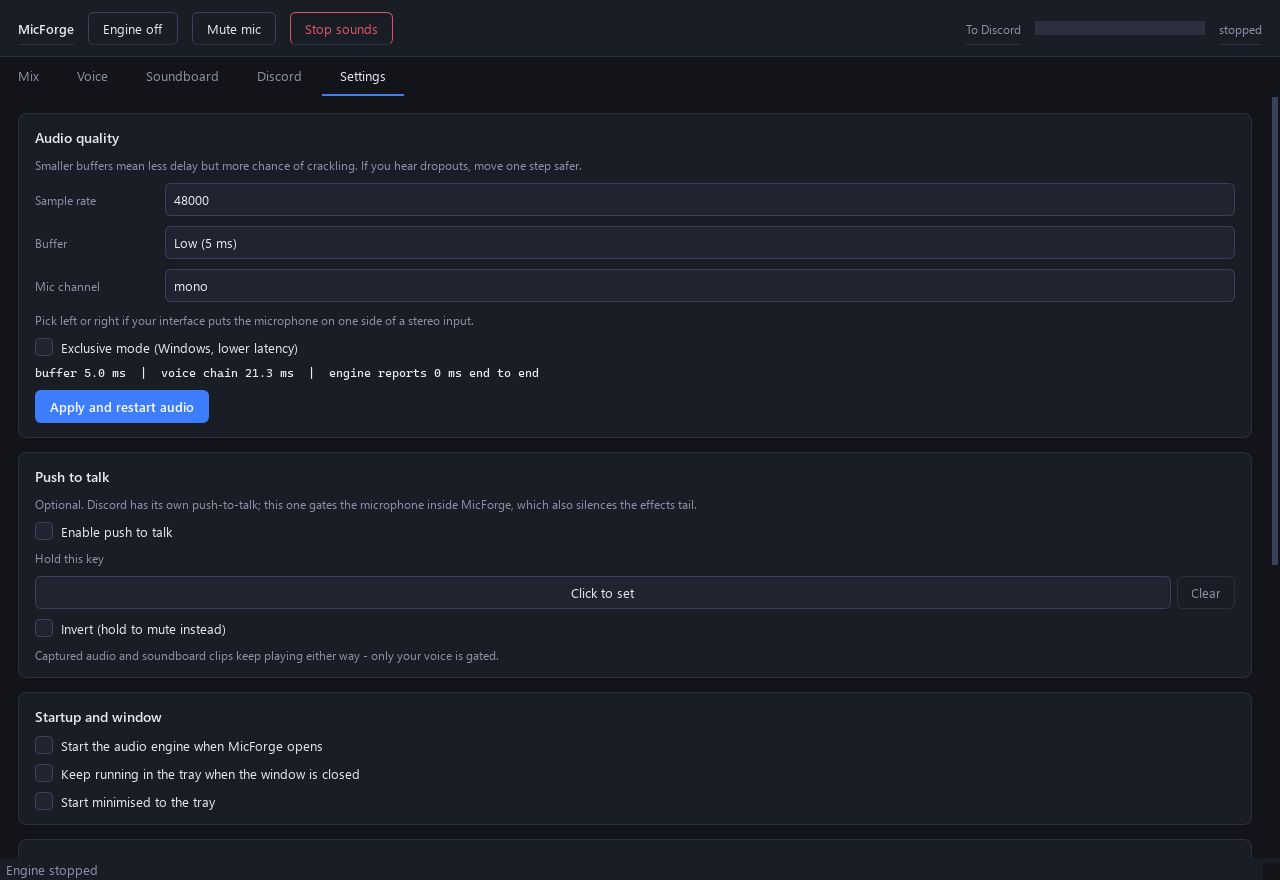
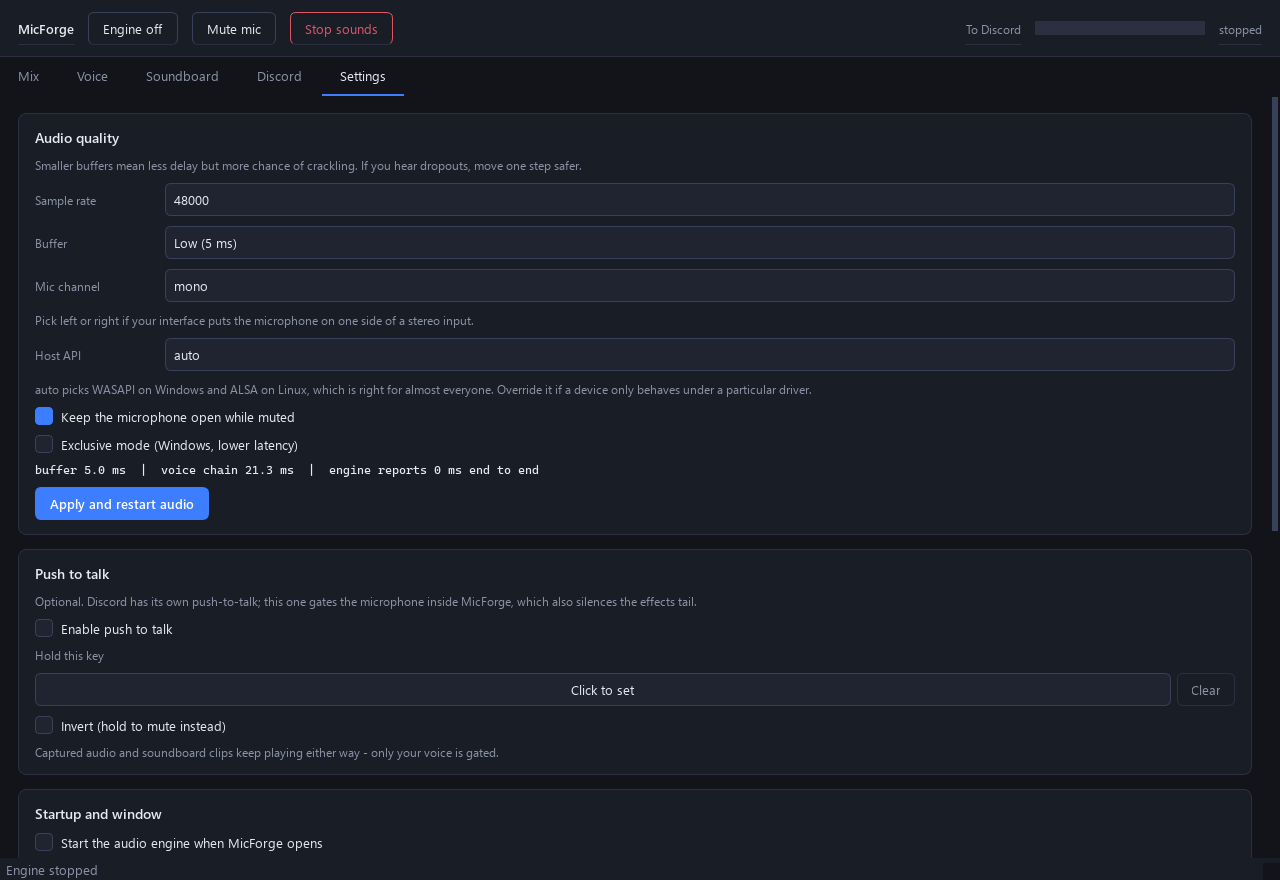
Wire up or remove config fields nothing read
Seven settings existed in config.json but were never consulted, which is
worse than not offering them - anyone hand-editing the file would get no
effect and no explanation.

Two were worth keeping and are now wired with controls on the Settings tab:
prefer_hostapi forces a driver for devices that misbehave under the default
ranking, and keep_alive chooses between instant muting and releasing the
microphone for other apps.

The other five are gone: include_tree could never be honoured (the Windows
process-loopback API has no single-process mode), and theme, show_advanced,
auto_connect, category and favourite were speculative.

diff --git a/micforge/ui/tab_settings.py b/micforge/ui/tab_settings.py
@@ -81,6 +81,20 @@ class SettingsTab(QWidget):
         card.add(hint("Pick left or right if your interface puts the microphone on one "
                       "side of a stereo input."))
 
+        self.hostapi = ChoiceRow("Host API", ["auto"] + devices.available_hostapis(),
+                                 label_width=120)
+        self.hostapi.valueChanged.connect(self._on_audio)
+        card.add(self.hostapi)
+        card.add(hint("auto picks WASAPI on Windows and ALSA on Linux, which is right "
+                      "for almost everyone. Override it if a device only behaves under "
+                      "a particular driver."))
+
+        self.keep_alive = Toggle("Keep the microphone open while muted", True,
+                                 "Makes muting instant. Turn it off to release the "
+                                 "device for other apps when the mic is disabled.")
+        self.keep_alive.toggled.connect(self._on_audio)
+        card.add(self.keep_alive)
+
         self.exclusive = Toggle("Exclusive mode (Windows, lower latency)", False,
                                 "Takes sole control of the device. Lower latency, but "
                                 "other apps cannot use it at the same time.")
@@ -197,6 +211,8 @@ class SettingsTab(QWidget):
                 self.blocksize.set_value(label)
                 break
         self.mic_channels.set_value(d.mic_channel_mode)
+        self.hostapi.set_value(d.prefer_hostapi or "auto")
+        self.keep_alive.setChecked(d.keep_alive)
         self.exclusive.setChecked(d.exclusive_mode)
 
         self.ptt_enabled.setChecked(mx.ptt_enabled)
@@ -228,6 +244,8 @@ class SettingsTab(QWidget):
         d.samplerate = int(self.samplerate.value())
         d.blocksize = BLOCK_CHOICES.get(self.blocksize.value(), 240)
         d.mic_channel_mode = self.mic_channels.value()
+        d.prefer_hostapi = self.hostapi.value()
+        d.keep_alive = self.keep_alive.isChecked()
         d.exclusive_mode = self.exclusive.isChecked()
         self.app.save(0.2)
         self._update_latency_label()

diff --git a/micforge/config.py b/micforge/config.py
@@ -65,7 +65,8 @@ class DeviceSettings:
     mic_channel_mode: str = "mono"
     """mono | left | right"""
     prefer_hostapi: str = "auto"
-    """auto | WASAPI | DirectSound | MME | ALSA"""
+    """Force a host API instead of the built-in preference order.
+    auto | Windows WASAPI | Windows DirectSound | Windows WDM-KS | MME | ALSA"""
     exclusive_mode: bool = False
     output_latency: str = "low"
     input_latency: str = "low"
@@ -84,8 +85,6 @@ class CaptureSettings:
     process_pid: int = 0
     process_name: str = ""
     window_title: str = ""
-    include_tree: bool = True
-    """Capture the child processes too (Chrome/Discord style multi-process apps)."""
     auto_reattach: bool = True
     """If the target app restarts, re-bind it by executable name."""
     reattach_interval_s: float = 2.0
@@ -216,9 +215,7 @@ class SoundEntry:
     to_mic: bool = True
     to_monitor: bool = True
     stop_others: bool = False
-    category: str = ""
     color: str = "#3d7dff"
-    favourite: bool = False
 
 
 @dataclass
@@ -263,7 +260,6 @@ class DiscordSettings:
     access_token: str = ""
     refresh_token: str = ""
     token_expires_at: float = 0.0
-    auto_connect: bool = True
     reconnect_interval_s: float = 5.0
     heuristic_poll_s: float = 1.0
     heuristic_process_names: list[str] = field(
@@ -279,7 +275,6 @@ class DiscordSettings:
 # --------------------------------------------------------------------------- ui/app
 @dataclass
 class UISettings:
-    theme: str = "dark"
     accent: str = "#3d7dff"
     start_minimised: bool = False
     minimise_to_tray: bool = True
@@ -288,7 +283,6 @@ class UISettings:
     window_geometry: str = ""
     last_tab: int = 0
     meter_fps: int = 30
-    show_advanced: bool = False
 
 
 @dataclass

diff --git a/micforge/audio/engine.py b/micforge/audio/engine.py
@@ -183,6 +183,7 @@ class AudioEngine:
                                        blocksize=self.blocksize)
             self._raise_timer_resolution()
 
+            devices.set_preferred_hostapi(self.cfg.devices.prefer_hostapi)
             self.samplerate = int(self.cfg.devices.samplerate)
             self.blocksize = max(32, int(self.cfg.devices.blocksize))
             self.chain = VoiceChain(self.samplerate)
@@ -348,6 +349,11 @@ class AudioEngine:
             self.status.warnings.append(f"Cannot open monitor {dev.name}: {exc}")
 
     def _open_mic(self) -> None:
+        if not self.cfg.devices.keep_alive and not self.cfg.mixer.mic_enabled:
+            # keep_alive normally holds the stream open so muting and unmuting
+            # is instant; turning it off releases the device for other apps.
+            _log.info("microphone disabled and keep-alive off - not opening it")
+            return
         name = self.cfg.devices.microphone
         dev = devices.resolve(name, "input") if name else devices.default_device("input")
         if dev is None:

diff --git a/micforge/audio/devices.py b/micforge/audio/devices.py
@@ -115,7 +115,33 @@ def _all() -> list[DeviceInfo]:
     return out
 
 
+_FORCED_HOSTAPI = ""
+
+
+def set_preferred_hostapi(name: str) -> None:
+    """Force one host API to the top of the ranking.
+
+    The built-in order is right for almost everyone, but someone with an ASIO
+    or JACK setup, or a device that only behaves under DirectSound, needs the
+    override.
+    """
+    global _FORCED_HOSTAPI
+    _FORCED_HOSTAPI = "" if (name or "auto").strip().lower() == "auto" else name.strip()
+    if _FORCED_HOSTAPI:
+        _log.info("host API forced to %s", _FORCED_HOSTAPI)
+
+
+def available_hostapis() -> list[str]:
+    seen: list[str] = []
+    for dev in _all():
+        if dev.hostapi_name not in seen:
+            seen.append(dev.hostapi_name)
+    return seen
+
+
 def _rank(dev: DeviceInfo) -> tuple[int, int]:
+    if _FORCED_HOSTAPI and dev.hostapi_name.lower() == _FORCED_HOSTAPI.lower():
+        return -1, dev.index
     prefs = HOSTAPI_PREFERENCE.get(_platform_key(), [])
     try:
         rank = prefs.index(dev.hostapi_name)
